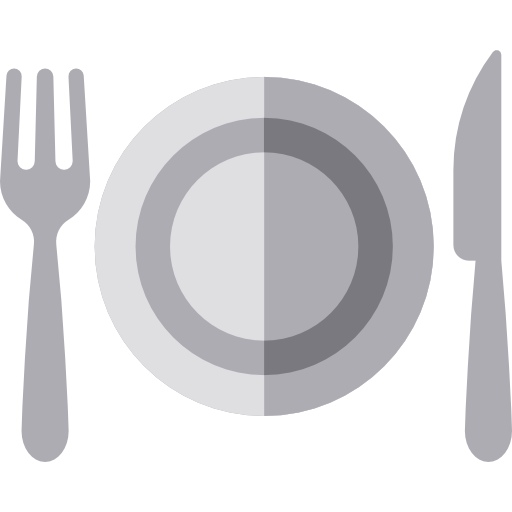
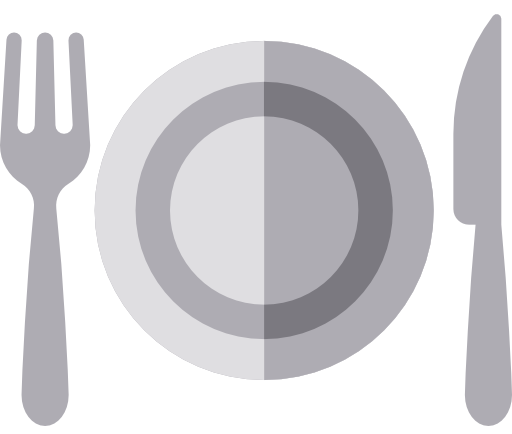
New meal plan page image and small styling change

diff --git a/src/Meal-plan.js b/src/Meal-plan.js
@@ -35,24 +35,16 @@ export class MealPlan extends Component {
                     </div>
 
                     <div className="row">
-                        <div className="col-md-4 col-xs-8 col-xs-offset-2">
+                        <div className="col-md-4 col-md-offset-4 col-xs-8 col-xs-offset-2">
                             <img src={MealPlate} className="center-block" id="meal-plan-plate" alt="Meal Plan"/>
                         </div>
                     </div>
 
                     <div className="row">
-                        <div className="col-xs-12" id="fridge-list">
+                        <div className="col-xs-12 col-md-4 col-md-offset-4" id="fridge-list">
                             <div className="fridge-category" id="fridge-category-fruit-veg">
                                 <h4 className="fridge-category-title">Fruits & Vegetables</h4>
                                 <p className="fridge-category-content">Apple</p>
-                            </div>
-                            <div className="fridge-category" id="fridge-category-dairy">
-                                <h4 className="fridge-category-title">Dairy</h4>
-                                <p className="fridge-category-content">Milk</p>
-                            </div>
-                            <div className="fridge-category" id="fridge-category-meat">
-                                <h4 className="fridge-category-title">Meat</h4>
-                                <p className="fridge-category-content">Bacon</p>
                             </div>
                         </div>
                     </div>
@@ -63,7 +55,7 @@ export class MealPlan extends Component {
                         <div className="col-xs-12">
                             <div className="grocery-button-row">
                                 <button className="col-xs-4 btn btn-secondary" id="remove-button" onClick={this.deleteItems}>CLEAR</button>
-                                <button className="col-xs-4 btn btn-secondary" id="add-to-fridge-button" >VIEW ALL MEALS</button>
+                                <button className="col-xs-4 btn btn-secondary" id="add-to-fridge-button" >SEE ALL MEALS</button>
                                 <button className="col-xs-4 btn btn-secondary" id="add-to-fridge-button" >SAVE</button>
                             </div>
                         </div>

diff --git a/src/App.css b/src/App.css
@@ -26,8 +26,7 @@
     -moz-border-radius:;
     border-radius: 15px;
     padding: 6px;
-    font-family: 'Catamaran', sans-serif;
-    font-weight: 700;
+    font-weight: bold;
 }
 
 /* BOOTSTRAP OVERRIDES *//* BOOTSTRAP OVERRIDES *//* BOOTSTRAP OVERRIDES */
@@ -67,7 +66,6 @@
 .menu-item {
     font-size: 1.5em;
     padding: 5px;
-    font-family: 'Catamaran', sans-serif;
 }
 .menu-item a {
     color: white;
@@ -112,7 +110,6 @@
 
 #landing-body {
     background-color: #21C0C0;
-    font-family: 'Catamaran', sans-serif;
     margin: 0;
     padding: 0;
 }
@@ -285,7 +282,7 @@
     text-align: center;
 }
 .fridge-category-icon {
-    width: 70px;
+    width: 75px;
     height: auto;
 }
 #fridge-list {
@@ -353,5 +350,5 @@
 /* MEAL PLAN */
 
 #meal-plan-plate {
-    width: 100%;
+    max-width: 90%;
 }
